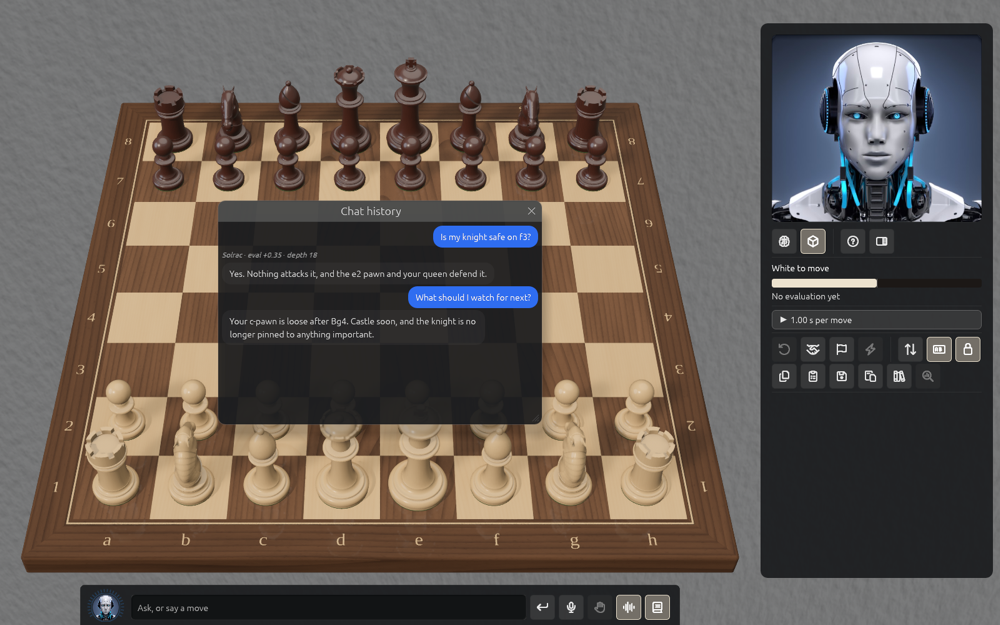
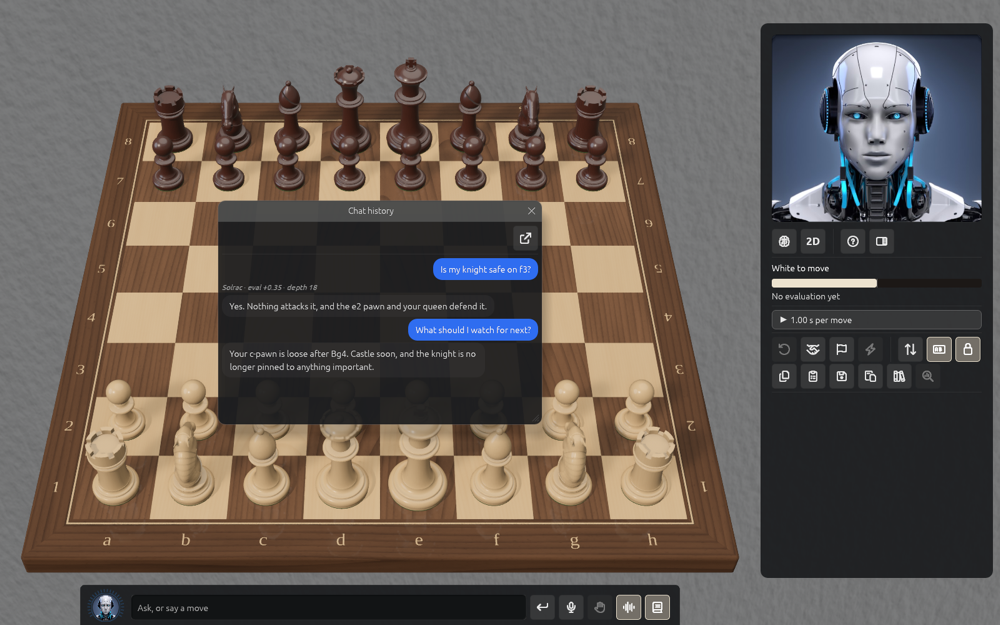
Chat and voice: the chat in a window of its own

Changed region(s): [[0.217, 0.3344, 0.558, 0.608], [0.775, 0.3648, 0.837, 0.4256], [0.341, 0.3344, 0.403, 0.3648]]

diff --git a/book/src/chat-and-voice.md b/book/src/chat-and-voice.md
@@ -25,7 +25,7 @@ iPad it moves to the top by itself while the on-screen keyboard is up, so the te
 stays in sight.
 
 **Tab** hides the panel and the Rail together, and shows them again. What you were typing is
-kept.
+kept. The chat can also have a window of its own (see below).
 
 ## What it does
 
@@ -63,6 +63,20 @@ on the left, with small italic lines for what it did (a move played, a setting c
 Errors are in a warning colour. In Hands-free, speech that wasn't meant for Solrac, such as you
 talking to someone in the room, is shown dimmed as "Not meant for the chat, so it wasn't
 answered."
+
+## The chat in a window of its own
+
+On a Mac, Windows or Linux, the icon at the top right of the Chat history window, **Open in its
+own window**, moves the whole chat into a window you can drag to another monitor: the
+conversation, and under it the dial, the field, Send, Talk, Hands-free and Read aloud. The Rail
+and its captions leave the board, which grows into their room. What Solrac says is lit word by
+word in its newest reply in that window, in place of the caption. Typing and voice work there
+as on the Rail, and what Solrac does still happens on the board.
+
+**Tab** hides the chat's window with the panel, and shows both again. Closing the window with
+its red button hides the chat; Tab or **View ▸ Chat** opens it again. The icon at the top right
+of the window, **Put back in Solrac's window**, puts the chat back on the Rail. Solrac
+remembers where the chat is, and opens it in its own window after a restart if it was there.
 
 ## What it costs and what is sent
 

diff --git a/book/src/shortcuts.md b/book/src/shortcuts.md
@@ -4,7 +4,7 @@ Every key Solrac answers to. Press **F1** in Solrac for the same list. Keys are 
 
 ## General
 
-- **Tab**: Hide or show the whole interface: the panel, the menu bar and the chat strip. It works while you are typing in the chat, which keeps what you typed
+- **Tab**: Hide or show the whole interface: the panel, the menu bar and the chat strip, or the chat's own window when it has one. It works while you are typing in the chat, which keeps what you typed
 - **Esc**: Close the topmost of New Game, Feedback, About, Settings, Games and Engine Thinking (not one in a window of its own, which you close with its red button). It also stops a line the chat is showing, puts away a move preview, takes the keys back from the move list or Engine Thinking, and in Engine Mind lets go of a selected move, then closes a window, then leaves the view
 - **⌘, (Ctrl+,)**: Open Settings
 - **F1** (⌘? on a Mac): Open Help
